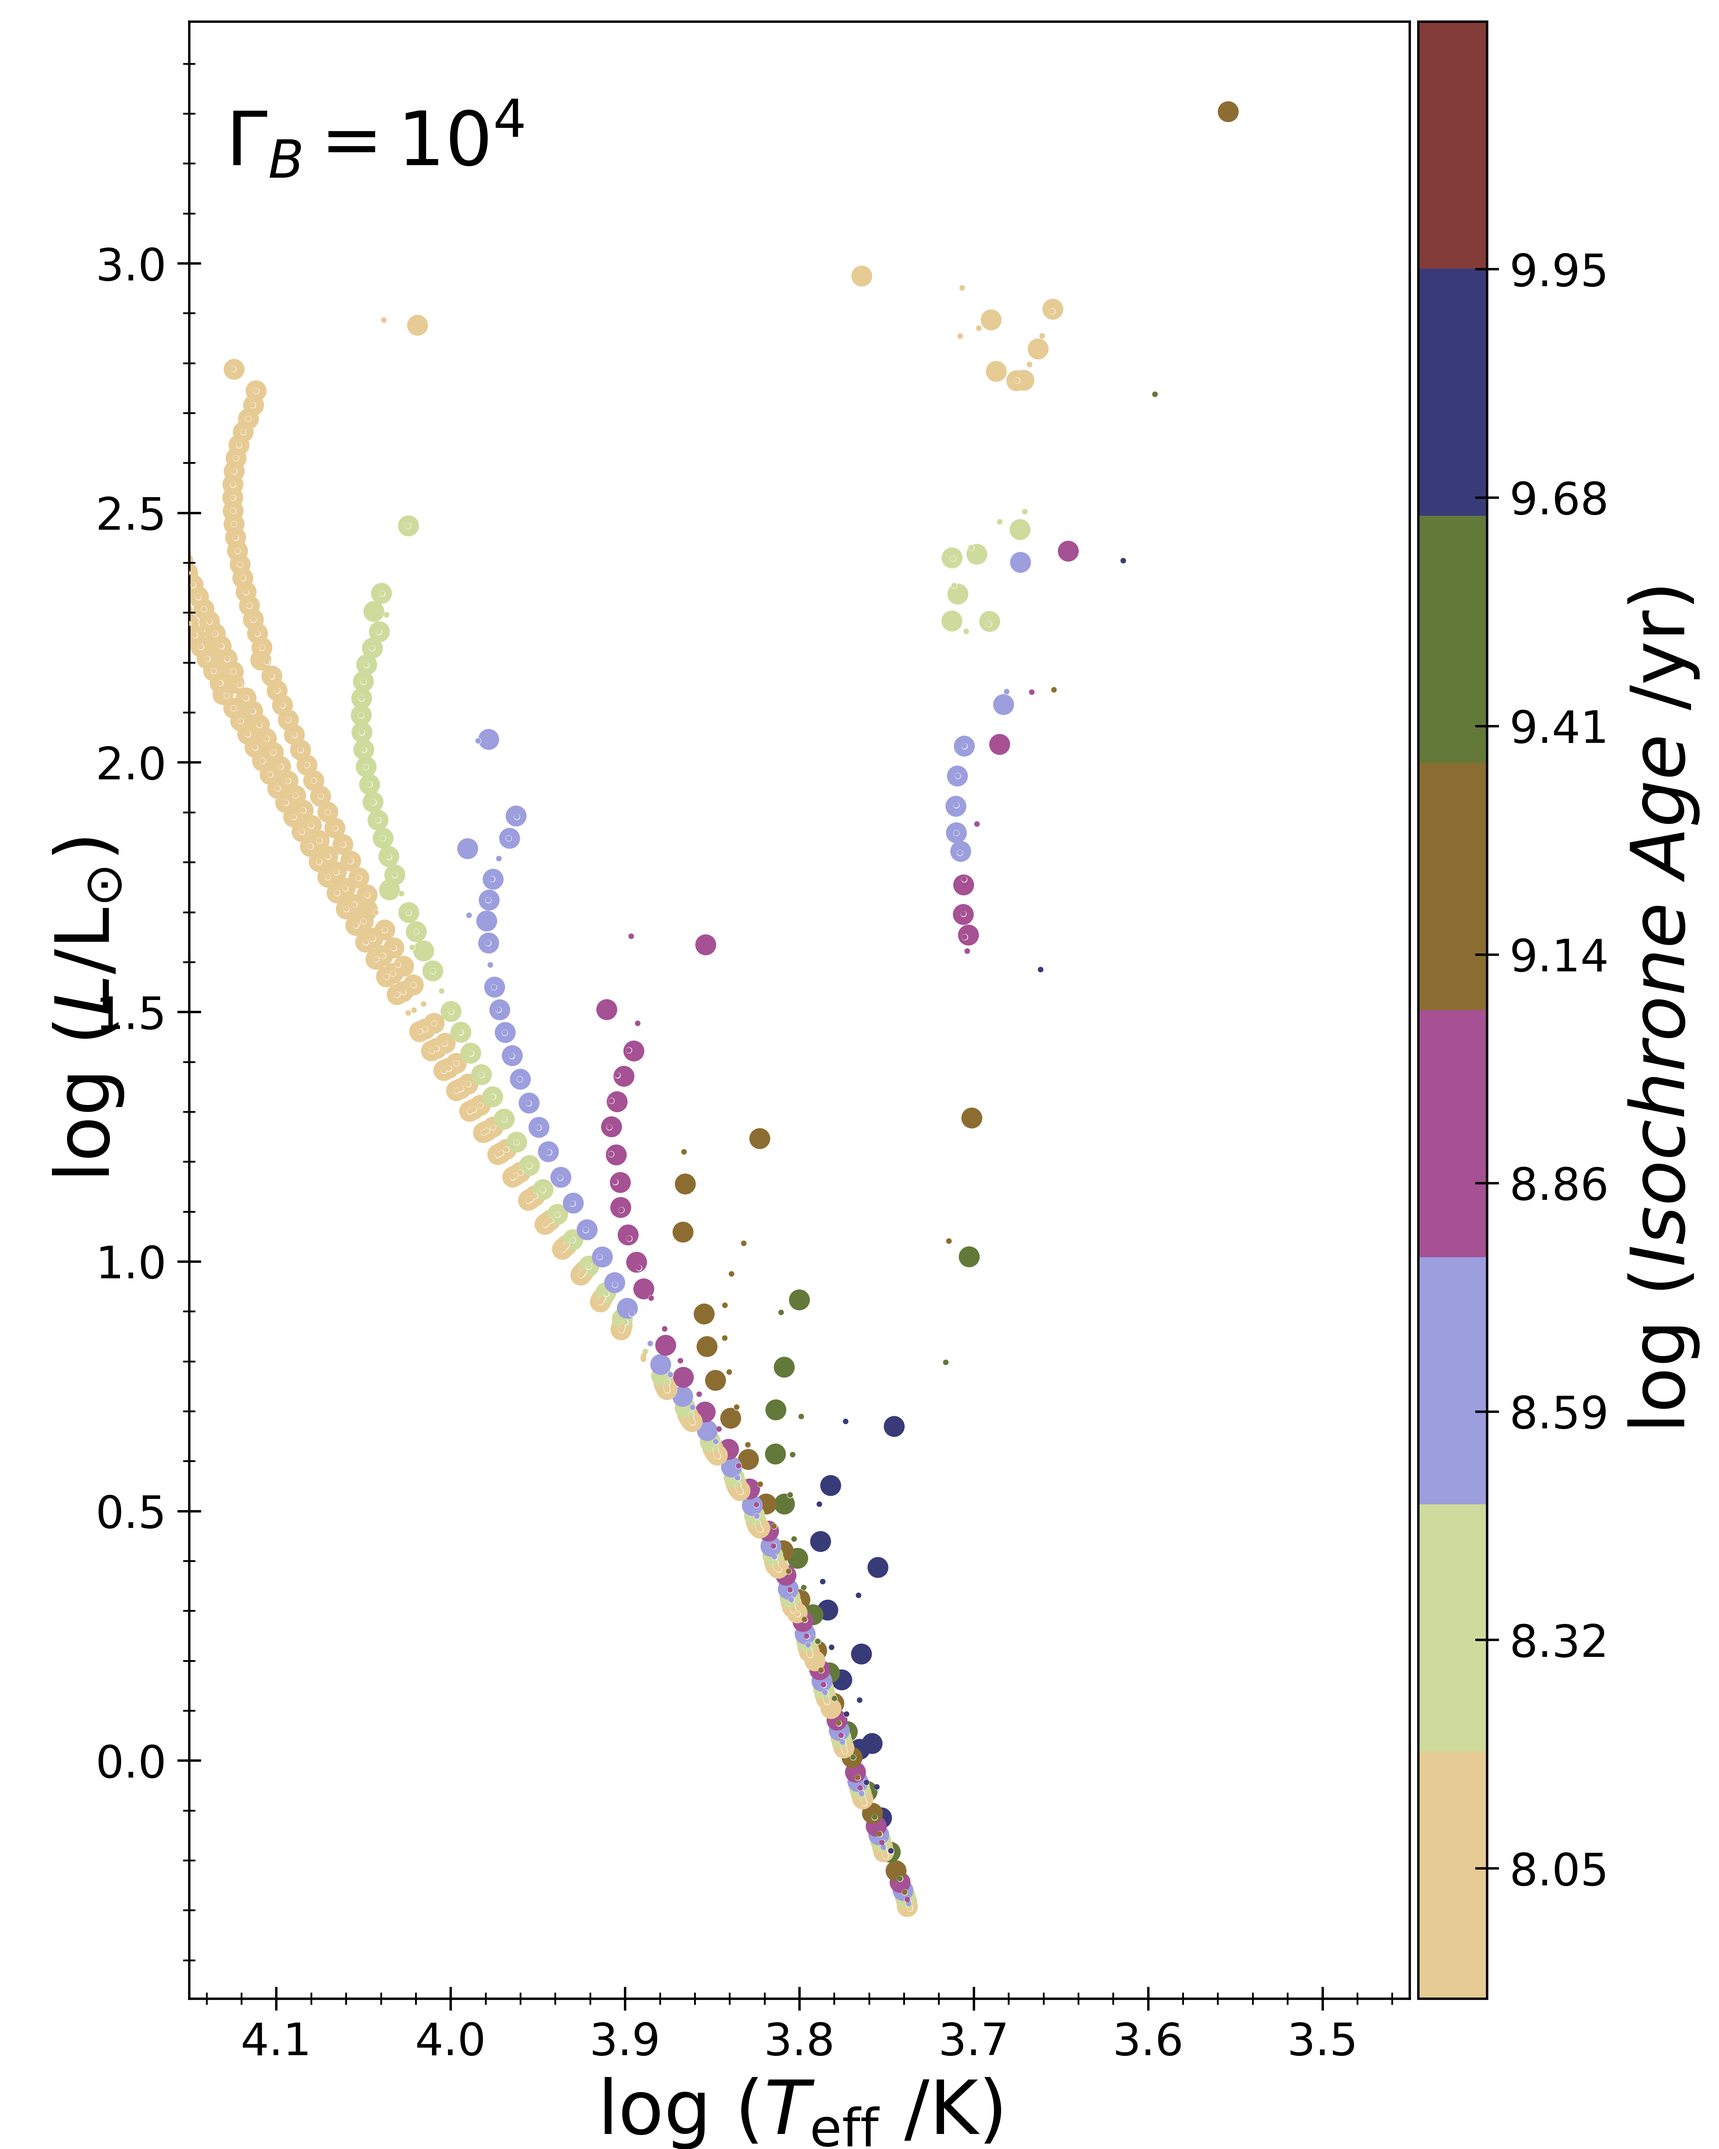
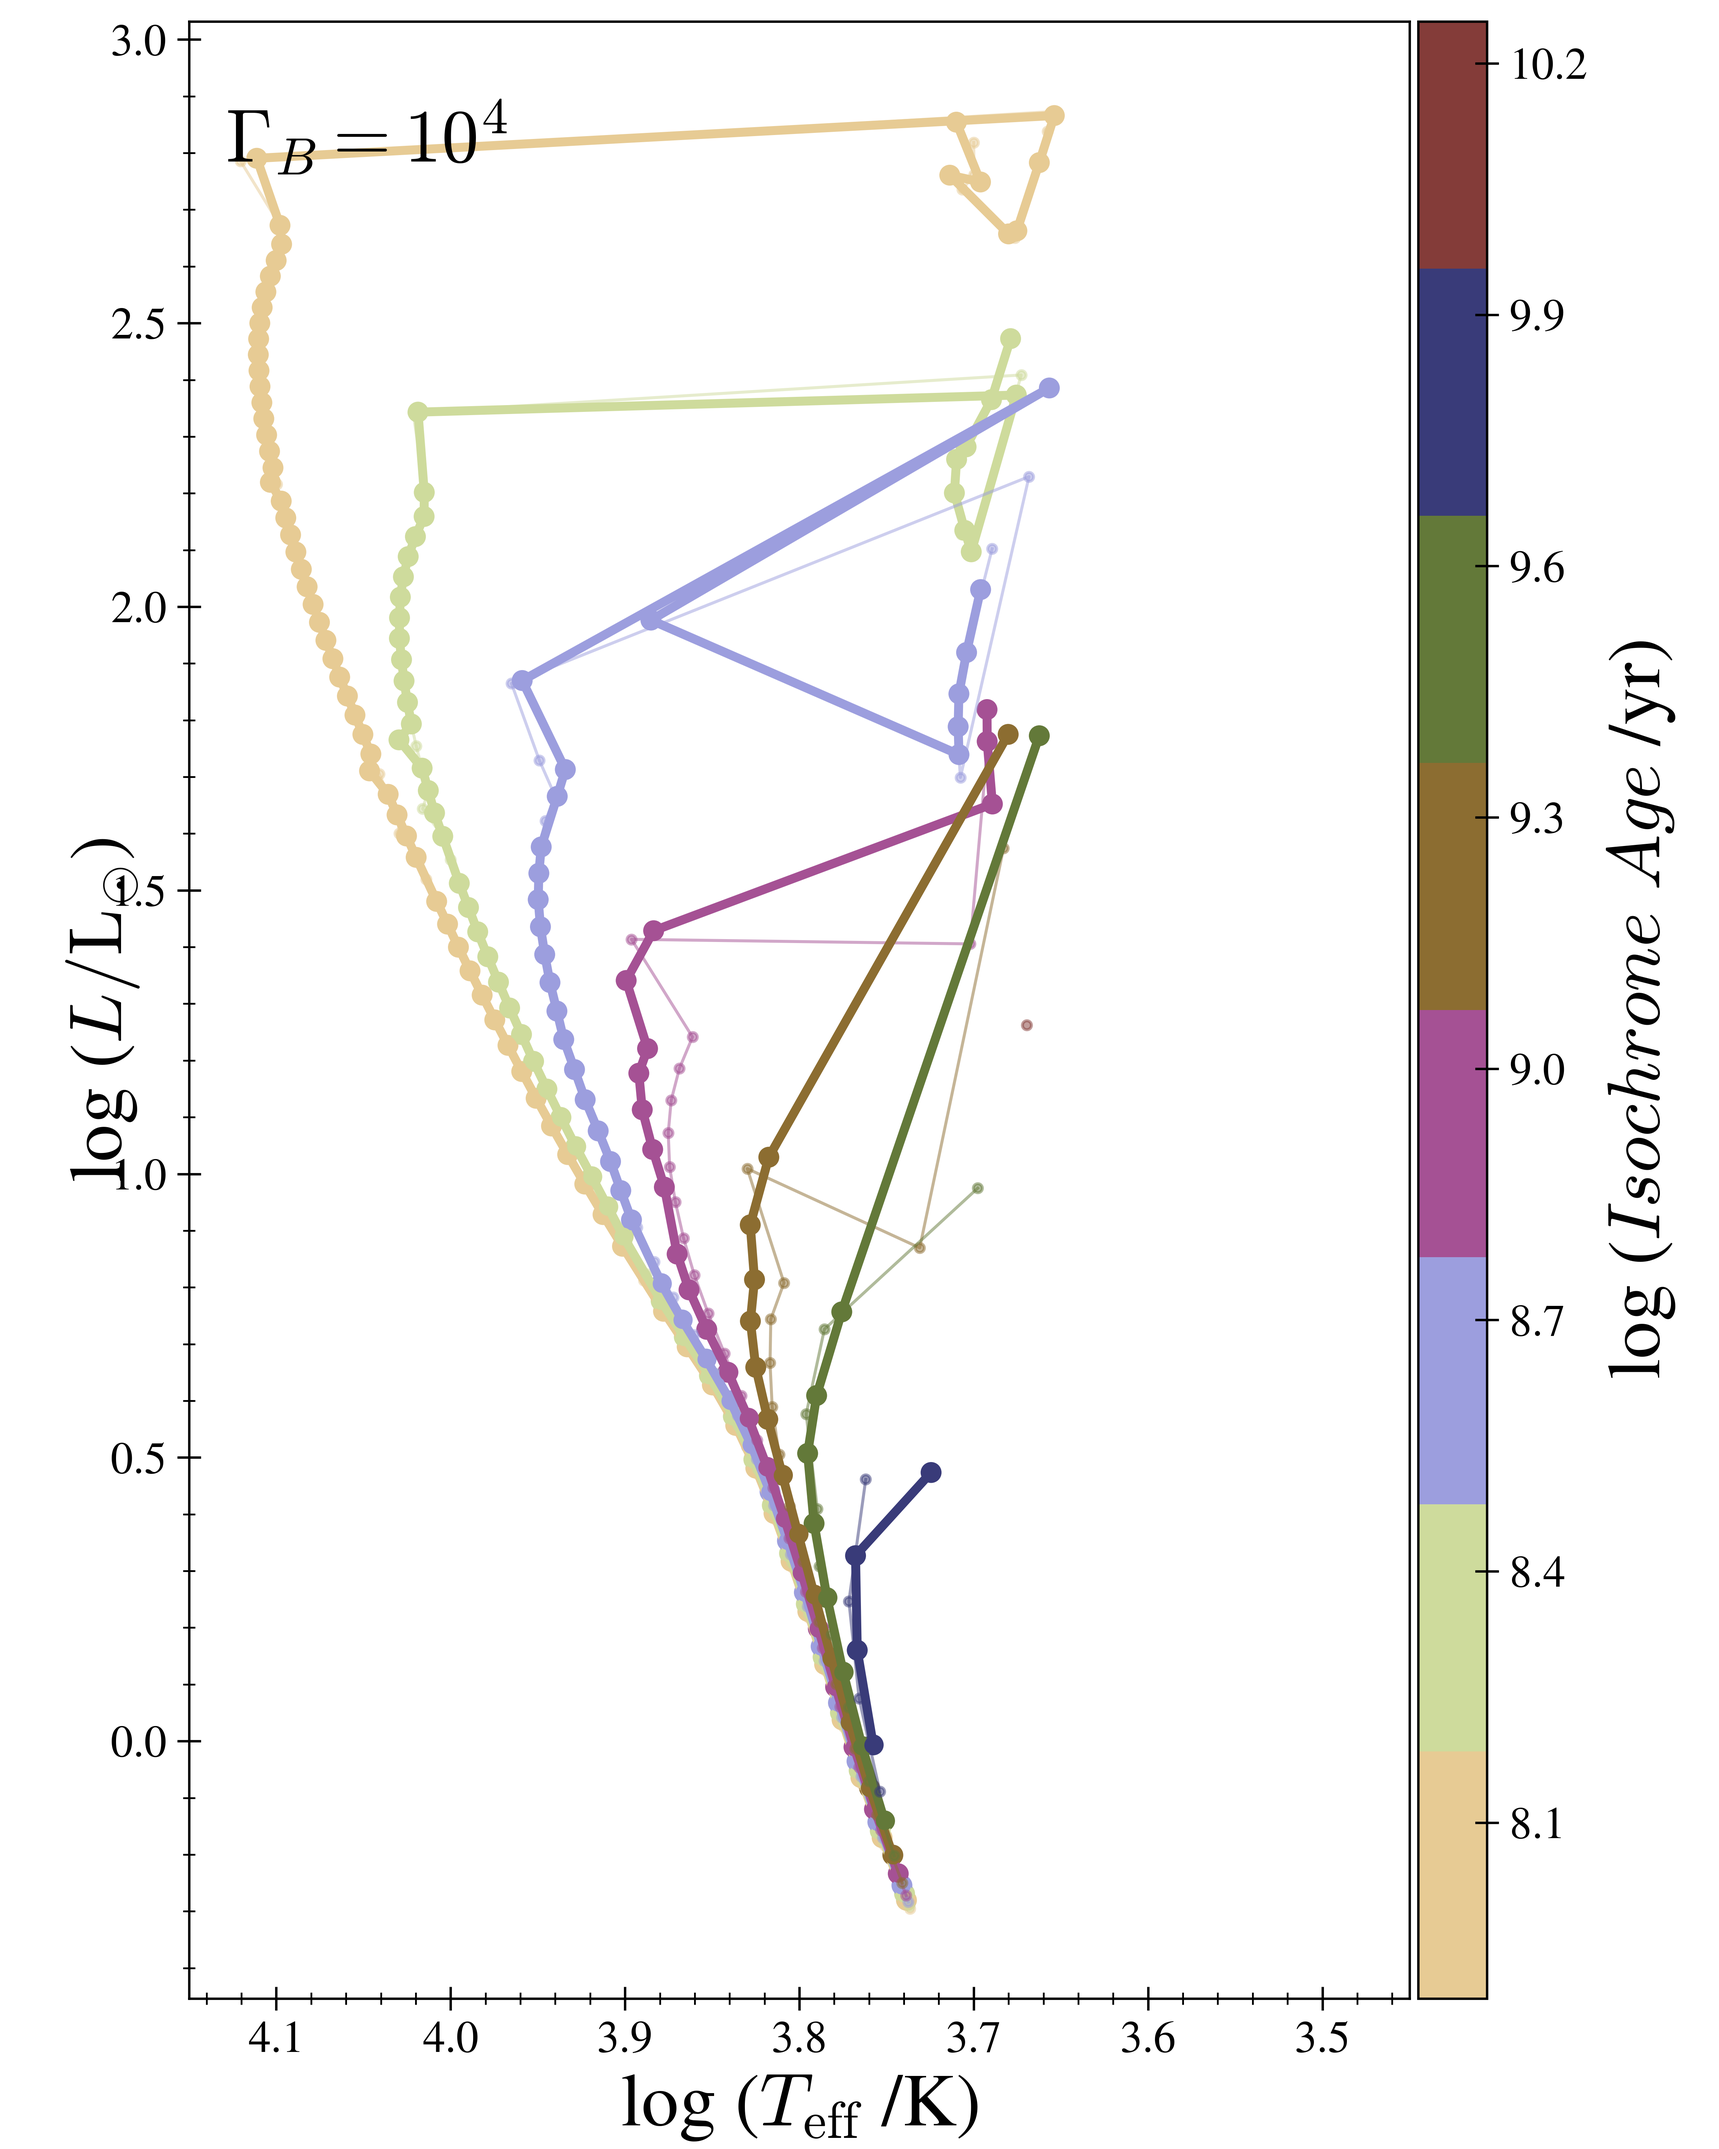
adds isochrone plots from my interpolation

diff --git a/_Paper/figures/plot_fncs.py b/_Paper/figures/plot_fncs.py
@@ -30,8 +30,8 @@ savefigh_vert = 2.5 # multiply this by number of times plotted (outer rows)
 
 mpl.rcParams["figure.dpi"] = 600
 mpl.rcParams['font.size'] = 13
-# mpl.rcParams['mathtext.fontset'] = 'cm'
-# mpl.rcParams['font.family'] = 'STIXGeneral' #'cmu serif'
+mpl.rcParams['mathtext.fontset'] = 'cm'
+mpl.rcParams['font.family'] = 'STIXGeneral' #'cmu serif'
 
 mpl.rcParams['lines.linewidth'] = 1
 # mpl.rcParams['legend.fontsize'] = 'small'
@@ -1488,6 +1488,8 @@ def plot_isos_ind(isodf, plot_times=None, cb=None, cut_axes=True, save=None):
     """ Plots isochrone panels.
     """
     fontOG = adjust_plot_readability(fontAdj=True, plot='isos')
+    icolor = {pt: get_cmap_color(pt, cmap=isocmap, myvmin=isovmin, myvmax=isovmax) for pt in plot_times}
+
     if cb is None:
         cb = 4
 
@@ -1519,15 +1521,21 @@ def plot_isos_ind(isodf, plot_times=None, cb=None, cut_axes=True, save=None):
                 # print(cbdf.log10_isochrone_age_yr.unique())
                 # print(cbdf0.log10_isochrone_age_yr.unique())
 
+        for pt in plot_times:
+            tmp = cbdf.loc[cbdf.log10_isochrone_age_yr==pt,:]
+            axs[a].plot(tmp.log_Teff, tmp.log_L, '-o', c=icolor[pt], lw=3, ms=5)
+            tmp = cbdf0.loc[cbdf0.log10_isochrone_age_yr==pt,:]
+            axs[a].plot(tmp.log_Teff, tmp.log_L, '-o', c=icolor[pt], lw=1, ms=3, alpha=0.5)
+
 
         p = axs[a].scatter(cbdf.log_Teff, cbdf.log_L, zorder=1,
                c=cbdf.log10_isochrone_age_yr, cmap=isocmap, vmin=isovmin, vmax=isovmax)
         # axs[a].plot(cbdf.log_Teff, cbdf.log_L, c='0.6', lw=2)
 
-        if c != 0:
-            axs[a].scatter(cbdf0.log_Teff, cbdf0.log_L, zorder=2, s=1.25, c='w')
-            axs[a].scatter(cbdf0.log_Teff, cbdf0.log_L, zorder=3, s=0.75,
-                   c=cbdf0.log10_isochrone_age_yr, cmap=isocmap, vmin=isovmin, vmax=isovmax)
+        # if c != 0:
+        #     axs[a].scatter(cbdf0.log_Teff, cbdf0.log_L, zorder=2, s=1.25, c='w')
+        #     axs[a].scatter(cbdf0.log_Teff, cbdf0.log_L, zorder=3, s=0.75,
+        #            c=cbdf0.log10_isochrone_age_yr, cmap=isocmap, vmin=isovmin, vmax=isovmax)
             # axs[a].plot(cbdf0.log_Teff, cbdf0.log_L, c='0.4', lw=0.5)
             # c = get_cmap_color(cbdf0.log10_isochrone_age_yr.iloc[0],
             #                     cmap=isocmap, myvmin=isovmin, myvmax=isovmax)

diff --git a/_Paper/figures/main.md b/_Paper/figures/main.md
@@ -1057,20 +1057,24 @@ The datapoint that intersects the 1e-3 line is actually slightly above it (I zoo
 ### Isochrones
 <!-- fs -->
 ```python
+%run plot_fncs
 fin = isomy_csv
 isodf = load_isos_from_file(fin=fin, cols=None)
 isoages = get_iso_ages(isodf)
-plot_times = [age for i,age in enumerate(isoages) if i%10==0][3:]
+plot_times = [age for i,age in enumerate(isoages) if i%11==0][2:]
 print(plot_times)
 # plot_times = [8.284, 8.4124, 8.8618, 9.1828, 9.4396, 9.6964, 9.9532, 10.017400000000002]
 # plot_times = [7.0, 7.3852, 7.642, 7.8346, 8.0272, 8.155599999999998]
 cb = [4, 6]
 for c in cb:
-    save = [None, plotdir+'/isos_cb'+str(c)+'.png', \
-            finalplotdir+'/isos_cb'+str(c)+'.png']
+    save = [None, plotdir+'/isos_cb'+str(c)+'.png', finalplotdir+'/isos_cb'+str(c)+'.png']
     plot_isos_ind(isodf, plot_times=plot_times, cb=c, save=save[1])
 ```
+Using `fin = iso_csv` (Dotter's code):
+<img src="temp/isos_cb4_Dotter.png" alt="isos_cb4_Dotter.png" width="400"/>
+<img src="temp/isos_cb6_Dotter.png" alt="isos_cb6_Dotter.png" width="400"/> 
 
+Using `fin = isomy_csv` (My interpolation code):
 <img src="temp/isos_cb4.png" alt="isos_cb4.png" width="400"/>
 <img src="temp/isos_cb6.png" alt="isos_cb6.png" width="400"/>
 
